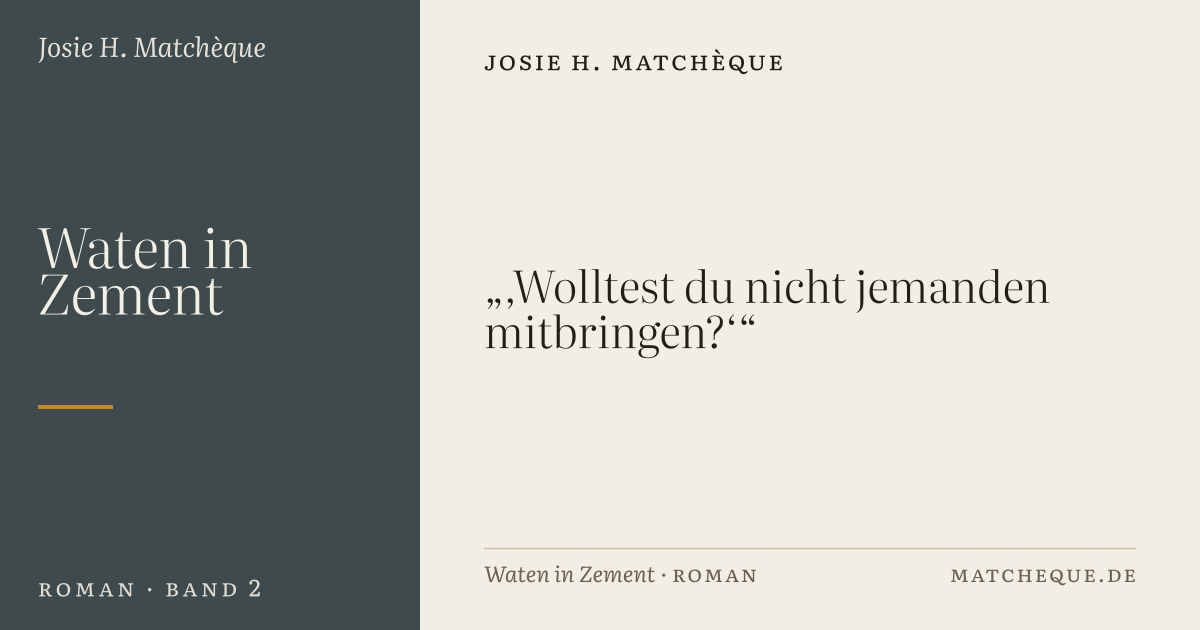
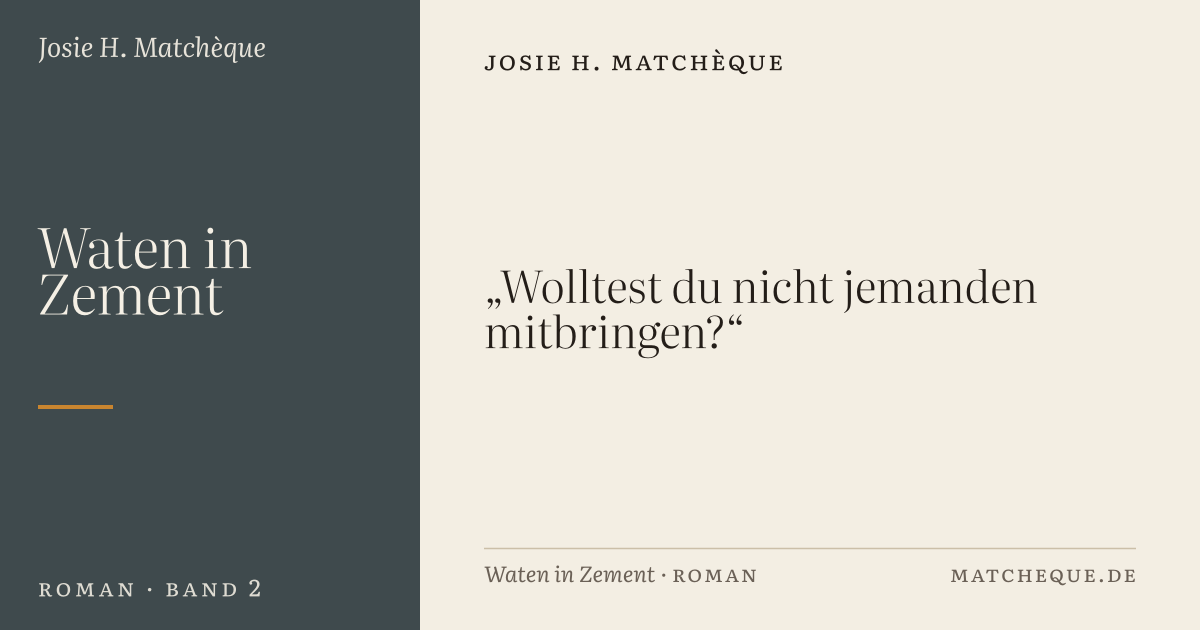
Waten in Zement: use Josie's chosen opening in both places
The homepage showed only the first line and "So beginnt es" showed the
start of the prologue read from the EPUB. Both now show the two
paragraphs Josie picked, word for word. New optional book field
`anfang` for this; without it the manuscript's first paragraph is used.

Changed region(s): [[0.4008, 0.4222, 0.8942, 0.4825]]

diff --git a/src/assets/css/site.css b/src/assets/css/site.css
@@ -206,9 +206,10 @@ a:hover { text-decoration-color: currentColor; }
 .incipit-satz--kurz { font-size: clamp(2.2rem, 1.1rem + 4.4vw, 5rem); max-width: 15em; }
 .incipit-satz--mittel { font-size: clamp(1.95rem, 1rem + 3.3vw, 4rem); max-width: 18em; }
 .incipit-satz--lang { font-size: clamp(1.7rem, 0.95rem + 2.4vw, 3.1rem); max-width: 22em; }
-.incipit-satz.haengt p { text-indent: -0.42em; }
+.incipit-satz p + p { margin-top: 0.55em; }
+.incipit-satz.haengt p:first-child { text-indent: -0.42em; }
 @supports (hanging-punctuation: first) {
-  .incipit-satz.haengt p { text-indent: 0; hanging-punctuation: first; }
+  .incipit-satz.haengt p:first-child { text-indent: 0; hanging-punctuation: first; }
 }
 .incipit-satz .platzhalter { display: inline; font-size: 0.42em; vertical-align: middle; }
 
